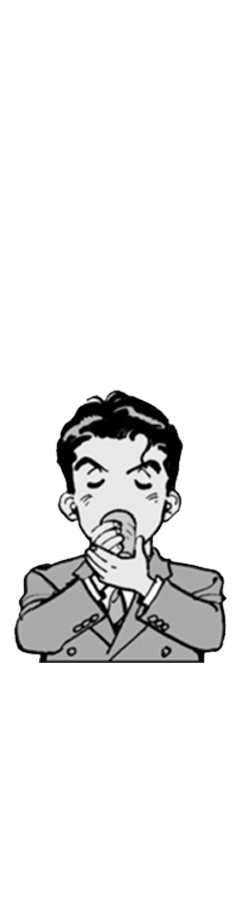
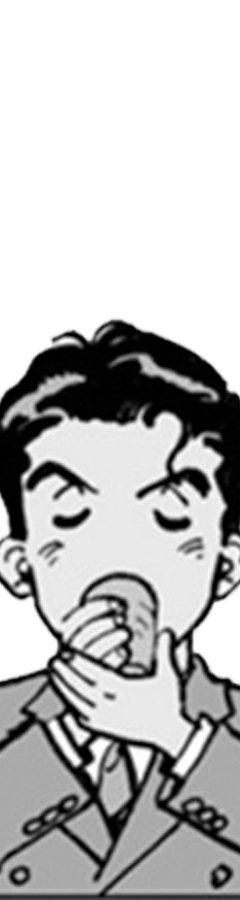
Add case study PDFs, sidebar images, and content updates
- Add per-page sidebar images for Contact (headshot), Work, and Branding
- Add 4 case study PDFs with download links wired up
- Add Case Study #4: The Forge with thumbnail and copy
- Magenta accent on Art/Science only in Approach copy; remove from 20yr/relentless
- Remove white background from sidebar image area

diff --git a/index.html b/index.html
@@ -80,7 +80,7 @@ body.home-active .nav-logo-wrap{ display:none; }
 }
 body.home-active #sidebar{opacity:0;visibility:hidden;pointer-events:none;}
 
-.sidebar-figure{ width:100%; flex:1; min-height:0; overflow:hidden; max-height:65%; background:#fff; }
+.sidebar-figure{ width:100%; flex:1; min-height:0; overflow:hidden; max-height:65%; }
 .sidebar-figure img{ width:100%;height:100%; object-fit:cover;object-position:top center; display:block; }
 
 .sidebar-bottom{
@@ -299,7 +299,7 @@ body:not(.home-active) .site-footer{margin-left:var(--sidebar-w);}
       <img class="approach-hero-img" src="https://raw.githubusercontent.com/izzywan-a11y/ArtandScience/main/Hero%20Project.png" alt="Approach">
       <div class="section-label">The Science Behind Getting It Done</div>
       <h1 class="section-title">Project Management</h1>
-      <p class="section-body">I've always been passionate about the relationship between good design and ideas (<strong>Art</strong>) and the mechanics behind getting things done right (<strong>Science</strong>).</p>
+      <p class="section-body">I've always been passionate about the relationship between good design and ideas (<strong style="color:var(--accent)">Art</strong>) and the mechanics behind getting things done right (<strong style="color:var(--accent)">Science</strong>).</p>
       <p class="section-body">The difference between the best idea in the world being simply adequate vs. being best-in-class comes down to how it's executed. When it comes to the planning, management, and execution of digital/creative products, I have over <strong>20 years of experience</strong> of getting it done right.</p>
       <p class="section-body">I am a <strong>relentless process optimizer</strong>. If I see a way to make the thing we did today quicker and easier to do tomorrow — I do everything I can to make that happen. More often than not, a little bit of empathy for each and every stakeholder involved and a bespoke approach to what works for the team goes a long way.</p>
       <p class="section-body">To learn more about the science behind my approach, check out some of the <a href="#" data-page="results">Results</a>.</p>
@@ -366,7 +366,7 @@ body:not(.home-active) .site-footer{margin-left:var(--sidebar-w);}
           <div class="case-num">Case Study No. 1</div>
           <div class="case-title">Chatham Financial: Design Ops Practice</div>
           <p class="case-desc">Built a design operations program from scratch for a 15+ person team — including a comprehensive SDLC framework, vendor renegotiations saving $10K+, and a ~60% reduction in the Design System backlog over 8 months. Also led cross-functional AI learning sessions for the product and development org.</p>
-          <a href="#" class="case-link">Download Case Study</a>
+          <a href="A%26S_Case%20Study_Chatham.pdf" class="case-link" target="_blank" download>Download Case Study</a>
         </div>
       </div>
       <div class="case-card">
@@ -375,7 +375,7 @@ body:not(.home-active) .site-footer{margin-left:var(--sidebar-w);}
           <div class="case-num">Case Study No. 2</div>
           <div class="case-title">American Express: @Work</div>
           <p class="case-desc">Turned a complex UX product roadmap within Global Commercial Services into a design-forward product program. Built program trust with the Product Team, implemented agile best practices, single-source PM (Airtable), and developed a new intake process from scratch.</p>
-          <a href="#" class="case-link">Download Case Study</a>
+          <a href="A%26S_Case%20Study_AMEX.pdf" class="case-link" target="_blank" download>Download Case Study</a>
         </div>
       </div>
       <div class="case-card">
@@ -384,7 +384,16 @@ body:not(.home-active) .site-footer{margin-left:var(--sidebar-w);}
           <div class="case-num">Case Study No. 3</div>
           <div class="case-title">Comcast / Xfinity: Prepaid App</div>
           <p class="case-desc">Consulted as dedicated on-site PM to rescue a complete overhaul of the Xfinity Prepaid App &amp; website. Implemented a phased agile approach to the SDLC — moving the project from 10 weeks behind schedule to delivered on time.</p>
-          <a href="#" class="case-link">Download Case Study</a>
+          <a href="A%26S_Case%20Study_Comcast.pdf" class="case-link" target="_blank" download>Download Case Study</a>
+        </div>
+      </div>
+      <div class="case-card">
+        <img class="case-thumb" src="https://raw.githubusercontent.com/izzywan-a11y/ArtandScience/main/Forge%20Logo.PNG" alt="The Forge">
+        <div class="case-content">
+          <div class="case-num">Case Study No. 4</div>
+          <div class="case-title">The Forge</div>
+          <p class="case-desc">What happens when you design, architect and build your own custom project and resource management platform from scratch using in-house resources? (Hint: it's awesome)</p>
+          <a href="A%26S_Case%20Study_The%20Forge.pdf" class="case-link" target="_blank" download>Download Case Study</a>
         </div>
       </div>
     </div>
@@ -474,7 +483,7 @@ body:not(.home-active) .site-footer{margin-left:var(--sidebar-w);}
   </div>
 
   <!-- CONTACT -->
-  <div class="page" id="page-contact" data-sidebar-fig="default">
+  <div class="page" id="page-contact" data-sidebar-fig="contact">
     <div class="inner-page">
       <div class="section-label">Let's Work Together</div>
       <h1 class="section-title">Contact</h1>
@@ -517,6 +526,7 @@ const FIG_DEFAULT  = "https://raw.githubusercontent.com/izzywan-a11y/ArtandScien
 const FIG_RESULTS  = "https://raw.githubusercontent.com/izzywan-a11y/ArtandScience/main/Results.png";
 const FIG_BRANDING = "https://raw.githubusercontent.com/izzywan-a11y/ArtandScience/main/BrandingSideBar.png";
 const FIG_WORK     = "https://raw.githubusercontent.com/izzywan-a11y/ArtandScience/main/WorkSidebar.png";
+const FIG_CONTACT  = "https://raw.githubusercontent.com/izzywan-a11y/ArtandScience/main/Isaac%20Klein%20-%20Headshot.jpg";
 
 const themeBtn  = document.getElementById('themeBtn');
 const navLogo   = document.getElementById('navLogo');
@@ -543,7 +553,7 @@ function showPage(id) {
   } else {
     document.body.classList.remove('home-active');
     const fig = pageEl ? pageEl.dataset.sidebarFig : 'default';
-    const figMap = { results: FIG_RESULTS, branding: FIG_BRANDING, work: FIG_WORK };
+    const figMap = { results: FIG_RESULTS, branding: FIG_BRANDING, work: FIG_WORK, contact: FIG_CONTACT };
     sidebarFig.src = figMap[fig] || FIG_DEFAULT;
   }
   window.scrollTo(0, 0);